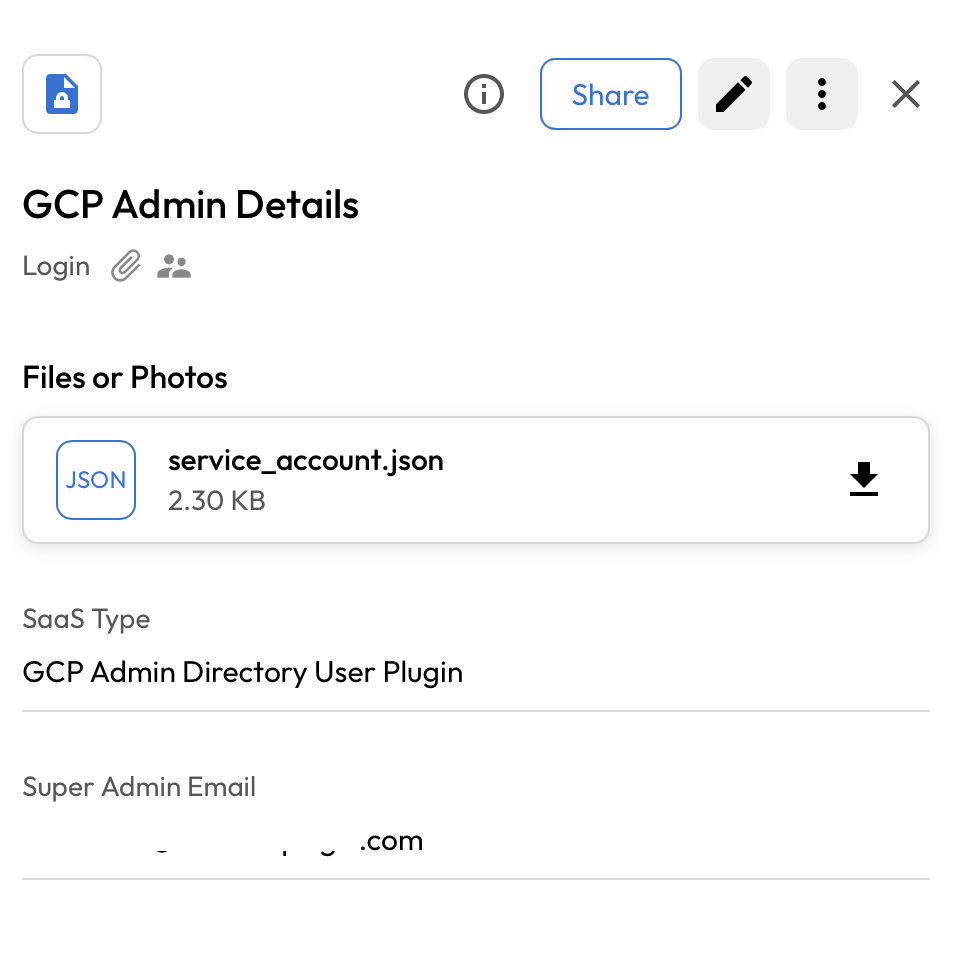
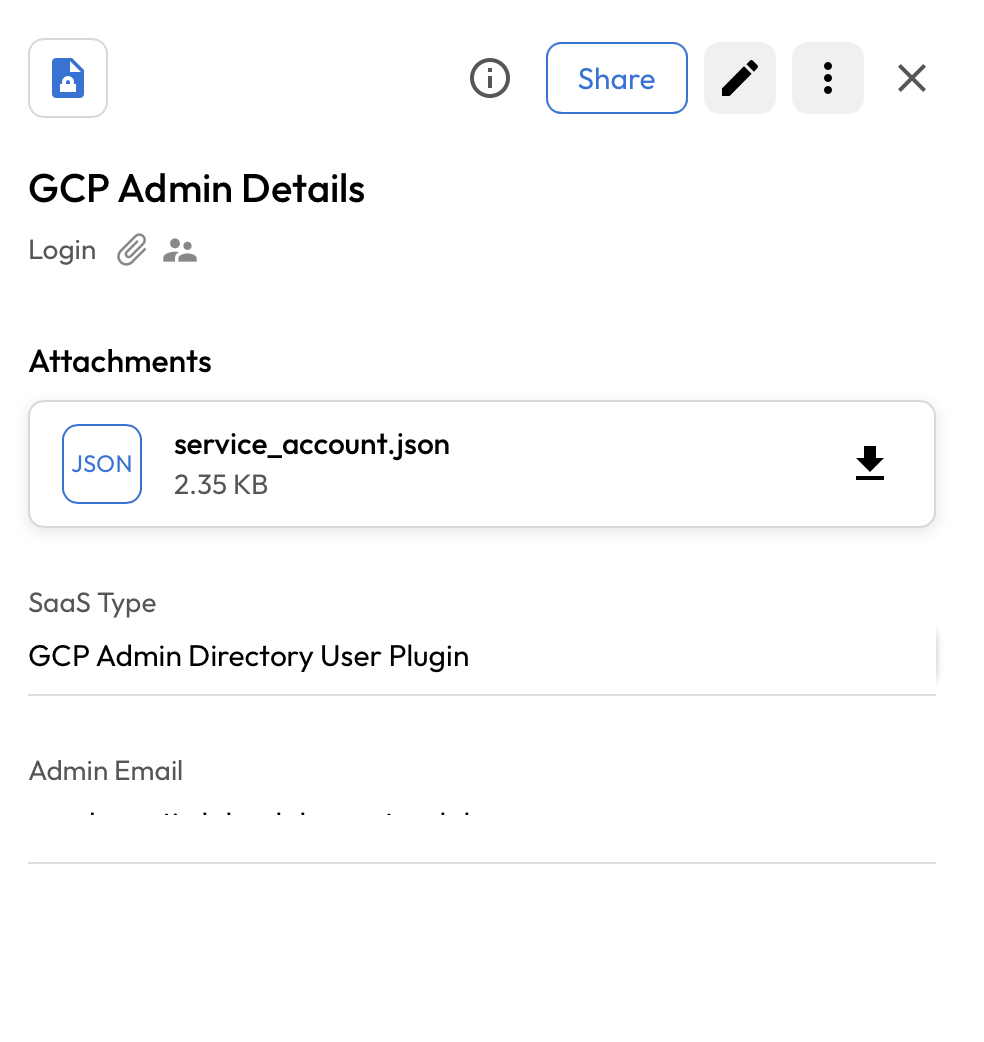
Updated Permissions

diff --git a/integrations/gcp_admin_directory_user/gcp_admin_directory_user.py b/integrations/gcp_admin_directory_user/gcp_admin_directory_user.py
@@ -16,14 +16,14 @@ if TYPE_CHECKING:
     from kdnrm.saas_type import SaasUser
     from keeper_secrets_manager_core.dto.dtos import Record
 
-class SaasPlugin(SaasPluginBase):
+LOGIN_URL = "https://console.cloud.google.com/"
 
+class SaasPlugin(SaasPluginBase):
     name = "GCP Admin Directory User Plugin"
     summary = "Change a user password in GCP Admin Directory."
     readme = "README.md"
     author = "Keeper Security"
     email = "pam@keepersecurity.com"
-
     def __init__(
         self,
         user: SaasUser,
@@ -35,24 +35,31 @@ class SaasPlugin(SaasPluginBase):
         self.user = user
         self.config_record = config_record
         self.temp_file = NamedTemporaryFile(suffix=".json")
+        self._can_rollback = False
+        self._client = None
+        self.return_fields = []
+
     @classmethod
     def requirements(cls) -> List[str]:
         return ["requests"]
+
     @classmethod
     def config_schema(cls) -> List[SaasConfigItem]:
         return [
             SaasConfigItem(
                 id="admin_email",
-                label="Super Admin Email",
-                desc='Super Admin Email for the GCP Admin Directory User Plugin',
+                label="Admin Email",
+                desc='Email address of the administrator with User Management permissions',
                 required=True,
             ),
         ]
 
     @property
     def can_rollback(self) -> bool:
-        return True
-
+        return self._can_rollback
+    @can_rollback.setter
+    def can_rollback(self, value: bool):
+        self._can_rollback = value
     def add_return_field(self, field: ReturnCustomField):
         """
         Add a custom return field to the plugin.
@@ -78,7 +85,7 @@ class SaasPlugin(SaasPluginBase):
                 "Missing 'admin_email' field in config record. \
                 Please ensure the admin email is provided."
             )
-        token_fie_ref = next(
+        token_file_repo = next(
             (
                 field["value"][0]
                 for field in gcp_admin_record
@@ -86,7 +93,7 @@ class SaasPlugin(SaasPluginBase):
             ),
             None,
         )
-        if not token_fie_ref:
+        if not token_file_repo:
             raise SaasException(
                 "Missing 'fileRef' field in config record. \
                 Please ensure the token file is provided."
@@ -95,7 +102,14 @@ class SaasPlugin(SaasPluginBase):
         self.config_record.download_file_by_title(
             "service_account.json", self.temp_file.name
         )
-        self._client =  GCPClient(admin_email=admin_email, service_account_json=self.temp_file.name)
+        try:
+            self._client = GCPClient(admin_email=admin_email, service_account_json=self.temp_file.name)
+            self.can_rollback = True
+        except SaasException as e:
+            self._client = None
+            self.can_rollback = False
+            Log.error(f"Failed to initialize GCP client: {str(e)}")
+            raise SaasException(f"Failed to initialize GCP client: {str(e)}") from e
         user_email = self.user.username.value
         new_password = self.user.new_password.value # type: ignore
         if not user_email or not new_password:
@@ -109,7 +123,7 @@ class SaasPlugin(SaasPluginBase):
         )
         self.add_return_field(
             ReturnCustomField(
-                value=Secret("https://console.cloud.google.com/"),
+                value=Secret(LOGIN_URL),
                 label="Login URL",
                 type="url"
             )
@@ -123,8 +137,13 @@ class SaasPlugin(SaasPluginBase):
         Log.info("Rolling back password change for GCP Admin Directory User Plugin")
         try:
             if self._client:
+                user_email = self.user.username.value
+                if not user_email:
+                    raise SaasException(
+                        "Missing 'username'field in user."
+                    )
                 self._client.update_user_password(
-                    user_email=self.user.username.value,
+                    user_email=user_email,
                     new_password= self.user.prior_password.value[-1], # type: ignore
                 )
             else:
@@ -141,7 +160,6 @@ class GCPClient:
     def __init__(self, admin_email: str, service_account_json):
         self.__admin_email = admin_email
         self.__service_account_json = service_account_json
-
     def update_user_password(self, user_email: str, new_password: str):
         """
         Change the password for a user by their user_email.

diff --git a/integrations/gcp_admin_directory_user/README.md b/integrations/gcp_admin_directory_user/README.md
@@ -72,11 +72,11 @@ In order to use the post-rotation script, you will need the following prerequisi
 
       plugin_test config -f <gcp_admin_directory_python_script> -s <shared_folder_uid> -t "GCP Admin Details"
 
-      Required: Super Admin Email
-      Super Admin Email for the GCP Admin Directory User Plugin
+      Required: Admin Email
+      Email address of the administrator with User Management permissions
       Enter Value : > 
 
-      - Super Admin Email: Super Admin Email ID (Root User Email ID)
+      - Admin Email: Admin Email ID (Admin Email ID with User Management Admin Permission)
 
     <img src="images/plugin_config.png" width="350" alt="plugin_config">
 - Please provide the requested details, and this will create a login record in the shared folder.
